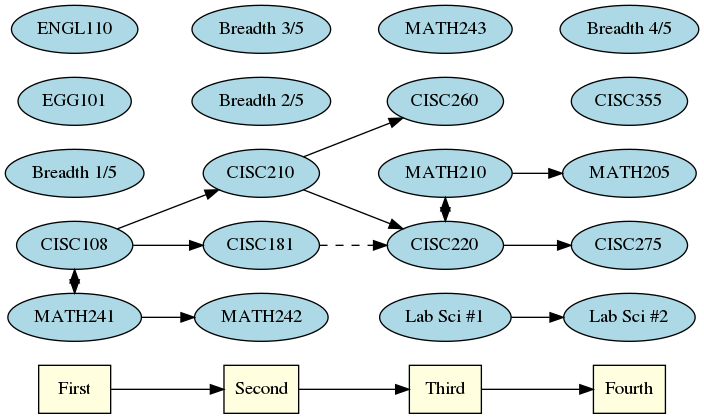
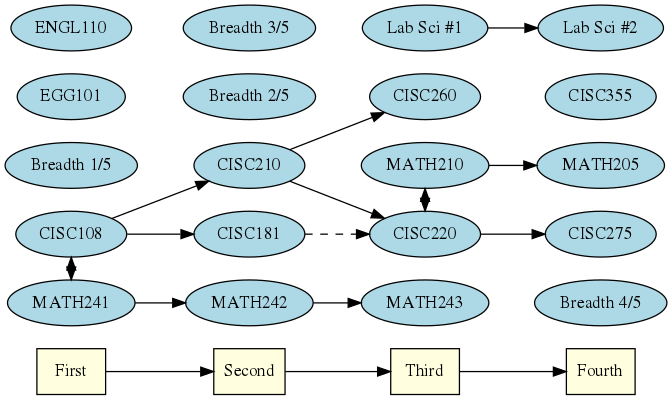
Update build results

diff --git a/_layouts/concentrations.html b/_layouts/concentrations.html
@@ -69,7 +69,7 @@ This is not an official concentration, so it does not have a longer description.
 
 {% if page.alt_core %}
 <p>We recommend this alternative first four semesters:</p>
-<img src="../../images/cs_alt_core.png" />
+<img src="../../images/cs_{{ page.code }}_core.png" />
 {% else %}
 <p>The <a href="../../core">Core</a> describes the first four semesters.</p>
 {% endif %}

diff --git a/_concentrations/infosys.md b/_concentrations/infosys.md
@@ -1,6 +1,7 @@
 ---
 title: Information Systems
 code: infosys
+alt_core: true
 wikipedia: "https://www.udel.edu/apply/undergraduate-admissions/major-finder/information-systems/"
 catalog: https://catalog.udel.edu/preview_program.php?catoid=40&poid=29401
 video: https://www.youtube.com/embed/ZaYWAc8HRDs
